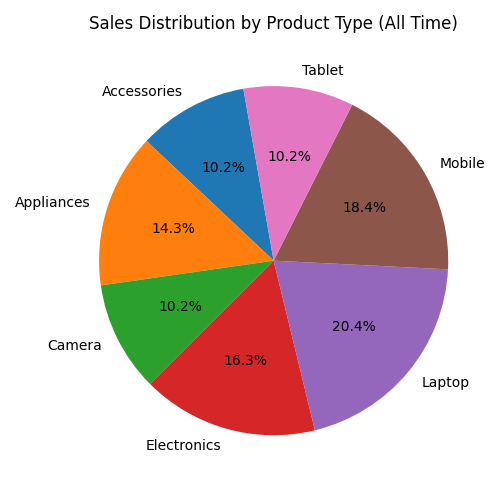
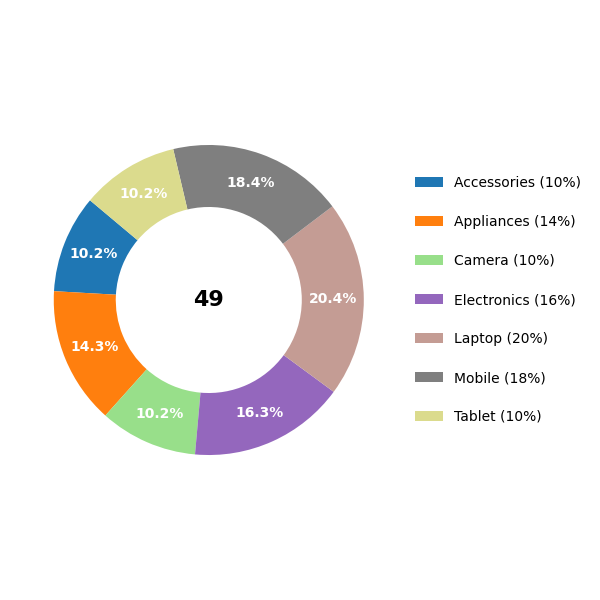
new pie chart and bar chart design is completed with upload csv file

diff --git a/templates/upload-csv.html b/templates/upload-csv.html
@@ -7,21 +7,17 @@
 <form method="POST" enctype="multipart/form-data" class="bg-white p-6 rounded shadow-md">
   <div class="mb-4">
     <label for="file" class="block mb-2 font-medium text-gray-700">Select CSV File</label>
-    <input type="file" id="file" name="file" accept=".csv" required
-           class="w-full border px-3 py-2 rounded" />
+    <input type="file" id="file" name="file" accept=".csv" required class="w-full border px-3 py-2 rounded" />
   </div>
-  <button type="submit"
-          class="bg-blue-600 text-white px-4 py-2 rounded hover:bg-blue-700">
-    Upload and Generate Charts
+  <button type="submit" class="bg-blue-600 text-white px-4 py-2 rounded hover:bg-blue-700">
+    Upload and Generate Chart
   </button>
 </form>
 
 {% if uploaded %}
   <div class="mt-6">
-    <h3 class="text-lg font-semibold mb-2">Generated Charts:</h3>
-    <img src="{{ url_for('static', filename='chart_bar.png') }}" class="mb-4 w-full max-w-md" />
-    <img src="{{ url_for('static', filename='chart_line.png') }}" class="mb-4 w-full max-w-md" />
-    <img src="{{ url_for('static', filename='chart_pie.png') }}" class="w-full max-w-md" />
+    <h3 class="text-lg font-semibold mb-2">Generated Bar Chart:</h3>
+    <img src="{{ url_for('static', filename='bar_dynamic.png') }}" class="w-full max-w-lg" />
   </div>
 {% endif %}
 {% endblock %}

diff --git a/utils/chart_utils.py b/utils/chart_utils.py
@@ -2,9 +2,15 @@ import matplotlib
 matplotlib.use('Agg')  # ✅ Use non-GUI backend for server rendering
 
 import matplotlib.pyplot as plt
+import numpy as np
+import matplotlib.colors as mcolors
+import pandas as pd
+import matplotlib.cm as cm 
+import matplotlib.ticker as ticker
 import sqlite3
 import os
 from datetime import datetime
+
 
 DB_PATH = os.path.join(os.path.dirname(__file__), '..', 'database', 'sales.db')
 
@@ -12,7 +18,7 @@ def generate_charts(start_date=None, end_date=None):
     conn = sqlite3.connect(DB_PATH)
     cursor = conn.cursor()
 
-    # Filter sales by date if provided
+    # Get sales data by date
     if start_date and end_date:
         cursor.execute("SELECT date, SUM(amount) FROM sales WHERE date BETWEEN ? AND ? GROUP BY date", (start_date, end_date))
     else:
@@ -24,25 +30,83 @@ def generate_charts(start_date=None, end_date=None):
     if not data:
         return
 
-    # Unzip dates and values
+    # Extract and sort
     dates, totals = zip(*data)
+    dates = [datetime.strptime(d, "%Y-%m-%d") for d in dates]
+    sorted_data = sorted(zip(dates, totals))
+    dates, totals = zip(*sorted_data)
 
-    # Chart 1: Sales over time
-    plt.figure(figsize=(8, 7))
-    plt.plot(dates, totals, marker='o')
-    plt.title('Sales Over Time')
-    plt.xlabel('Date')
-    plt.ylabel('Total Sales')
-    plt.xticks(rotation=45)
+    # Convert to NumPy for smooth plotting
+    x = np.arange(len(dates))
+    y = np.array(totals)
+
+    # 🌈 Gradient Color
+    gradient_color = mcolors.LinearSegmentedColormap.from_list("custom_gradient", ['#ff6a00', '#ff2fab', '#5f76f3'])
+
+    fig, ax = plt.subplots(figsize=(9, 6))
+  
+
+    # Smooth line (optional cubic interpolation)
+    from scipy.interpolate import make_interp_spline
+    xnew = np.linspace(x.min(), x.max(), 300)
+    spl = make_interp_spline(x, y, k=3)
+    y_smooth = spl(xnew)
+
+    # Line plot
+    ax.plot(xnew, y_smooth, color="#ff2f2f", linewidth=2.5)
+
+    # Gradient fill below
+    ax.fill_between(xnew, y_smooth, color="#f7dfe0", alpha=0.1)
+
+    # Style tweaks
+    ax.set_xticks(x)
+    ax.set_xticklabels([d.strftime('%b') for d in dates], color='white', fontsize=9)
+    ax.set_yticklabels(ax.get_yticks(), color='white', fontsize=9)
+    ax.spines['top'].set_visible(False)
+    ax.spines['right'].set_visible(False)
+
     plt.tight_layout()
-    plt.savefig('static/chart1.png')
+    plt.savefig('static/chart1.png', facecolor=fig.get_facecolor())
     plt.close()
+# def generate_charts(start_date=None, end_date=None):
+#     conn = sqlite3.connect(DB_PATH)
+#     cursor = conn.cursor()
+
+#     if start_date and end_date:
+#         cursor.execute("SELECT date, SUM(amount) FROM sales WHERE date BETWEEN ? AND ? GROUP BY date", (start_date, end_date))
+#     else:
+#         cursor.execute("SELECT date, SUM(amount) FROM sales GROUP BY date")
+
+#     data = cursor.fetchall()
+#     conn.close()
+
+#     if not data:
+#         return
+
+#     dates, totals = zip(*data)
+
+#     # 💡 Start custom style
+#     plt.style.use('ggplot')  # Try: 'ggplot', 'fivethirtyeight', 'bmh'
+
+#     fig, ax = plt.subplots(figsize=(8, 5))
+#     ax.plot(dates, totals, color='#1f77b4', linewidth=2.5, marker='o', markersize=6)
+
+#     ax.set_title('📈 Sales Over Time', fontsize=16, fontweight='bold', color='#333')
+#     ax.set_xlabel('Date', fontsize=12)
+#     ax.set_ylabel('Total Sales (₹)', fontsize=12)
+#     plt.xticks(rotation=45)
+#     plt.grid(True, linestyle='--', alpha=0.6)
+#     plt.tight_layout()
+#     plt.savefig('static/chart1.png')
+#     plt.close()
+
+DB_PATH = os.path.join(os.path.dirname(__file__), '..', 'database', 'sales.db')
 
 def generate_pie_chart(start_date=None, end_date=None, year=None):
     conn = sqlite3.connect(DB_PATH)
     cursor = conn.cursor()
 
-    # ✅ 1. If year is provided, use it
+    # Query sales by product_type for given year (or all)
     if year:
         cursor.execute("""
             SELECT product_type, COUNT(*) 
@@ -50,26 +114,12 @@ def generate_pie_chart(start_date=None, end_date=None, year=None):
             WHERE strftime('%Y', date) = ? 
             GROUP BY product_type
         """, (year,))
-        title = f"Sales Distribution by Product Type ({year})"
-
-    # ✅ 2. If start_date and end_date are provided
-    elif start_date and end_date:
-        cursor.execute("""
-            SELECT product_type, COUNT(*) 
-            FROM sales 
-            WHERE date BETWEEN ? AND ? 
-            GROUP BY product_type
-        """, (start_date, end_date))
-        title = f"Sales Distribution ({start_date} to {end_date})"
-
-    # ✅ 3. Otherwise, show all data
     else:
         cursor.execute("""
             SELECT product_type, COUNT(*) 
             FROM sales 
             GROUP BY product_type
         """)
-        title = "Sales Distribution by Product Type (All Time)"
 
     data = cursor.fetchall()
     conn.close()
@@ -78,11 +128,94 @@ def generate_pie_chart(start_date=None, end_date=None, year=None):
         return
 
     labels, counts = zip(*data)
+    total = sum(counts)
 
-    plt.figure(figsize=(5, 5))
-    plt.pie(counts, labels=labels, autopct='%1.1f%%', startangle=100)
-    plt.title(title)
-    plt.axis('equal')
+    # Custom Colors (inspired by your image)
+    cmap=cm.get_cmap('tab20')
+    colors =[cmap(i/len(labels))for i in range(len(labels))]
+
+    # Set background to dark
+    plt.style.use('dark_background')
+
+    fig, ax = plt.subplots(figsize=(6, 6), facecolor="#FFFFFFFF")
+    wedges, texts, autotexts = ax.pie(
+        counts, 
+        labels=None,
+        autopct=lambda pct: f"{pct:.1f}%", 
+        startangle=140, 
+        colors=colors,
+        wedgeprops=dict(width=0.4),
+        pctdistance=0.8,
+        textprops={'color':'white', 'weight':'bold','fontsize':10}
+    )
+
+    # Center text: total
+    ax.text(0, 0, f'{total}', ha='center', va='center', fontsize=16, color='black', fontweight='bold')
+
+    # Create custom legend
+    ax.legend(
+        wedges,
+        [f"{label} ({count / total:.0%})" for label, count in zip(labels, counts)],
+        loc='center left',
+        bbox_to_anchor=(1, 0.5),
+        frameon=False,
+        labelcolor='black',
+        labelspacing=1.8
+    )
+
     plt.tight_layout()
-    plt.savefig('static/piechart.png')
+    plt.savefig('static/piechart.png', facecolor=fig.get_facecolor())
+    plt.close()
+
+
+# ------------------ Dynamic Grouped Bar Chart ------------------
+def generate_dynamic_bar_chart(csv_path):
+    df = pd.read_csv(csv_path)
+
+    if df.shape[1] < 2:
+        return
+
+    x_labels = df.iloc[:, 0]  # First column
+    series_names = df.columns[1:]
+
+    x = np.arange(len(x_labels))
+    total_series = len(series_names)
+    width = 0.8 / total_series
+
+    fig, ax = plt.subplots(figsize=(9, 6), facecolor='white')
+
+    # 🔥 Auto orange gradient shades
+    orange_cmap = cm.get_cmap('Oranges', total_series + 2)  # More variation
+    bar_colors = [orange_cmap(i) for i in range(2, total_series + 2)]
+
+    for i, subject in enumerate(series_names):
+        ax.bar(x + i * width - (width * total_series / 2) + width/2,
+               df[subject],
+               width=width,
+               label=subject,
+               color=bar_colors[i],
+               edgecolor='none')
+
+    # ✨ Styling
+    ax.set_xticks(x)
+    ax.set_xticklabels(x_labels, rotation=0, ha='center', fontsize=10)
+
+    ax.set_ylim(0, df[series_names].values.max() * 1.3)
+
+    ax.set_facecolor('white')
+    fig.patch.set_facecolor('white')
+
+    # Hide spines
+    ax.spines[['top', 'right', 'left']].set_visible(False)
+    ax.spines['bottom'].set_color('#DDDDDD')
+
+    # Grid and labels
+    ax.yaxis.set_major_formatter(ticker.FuncFormatter(lambda x, _: f'{int(x)}'))
+    ax.yaxis.grid(True, color='#EEEEEE')
+    ax.xaxis.grid(False)
+
+    ax.legend(loc='upper center', bbox_to_anchor=(0.5, 1.2), frameon=True, ncol=len(series_names))
+
+    plt.tight_layout()
+    plt.savefig("static/bar_dynamic.png", facecolor=fig.get_facecolor())
     plt.close()

diff --git a/app.py b/app.py
@@ -1,8 +1,11 @@
 from flask import Flask, render_template, request, redirect, url_for, session
 import sqlite3
-from utils.chart_utils import generate_charts, generate_pie_chart
+from utils.chart_utils import generate_charts, generate_pie_chart, generate_dynamic_bar_chart
 import os
-
+import matplotlib.pyplot as plt
+import os
+import pandas as pd
+import csv
 app = Flask(__name__)
 app.secret_key = "123456789harsh"
 
@@ -119,32 +122,26 @@ def report():
 
 
 
+UPLOAD_FOLDER = 'uploads'
+os.makedirs(UPLOAD_FOLDER, exist_ok=True)
+
+UPLOAD_FOLDER = 'uploads'
+os.makedirs(UPLOAD_FOLDER, exist_ok=True)
 
 @app.route('/upload-csv', methods=['GET', 'POST'])
 def upload_csv():
-    if 'user' not in session:
-        return redirect(url_for('login'))
-
+    chart_generated = False
     if request.method == 'POST':
         file = request.files['file']
         if file and file.filename.endswith('.csv'):
-            filepath = os.path.join('uploads', file.filename)
+            filepath = os.path.join(UPLOAD_FOLDER, file.filename)
             file.save(filepath)
 
-            import csv
-            conn = get_db_connection()
-            with open(filepath, 'r') as f:
-                reader = csv.reader(f)
-                next(reader)  # Skip header
-                for row in reader:
-                    conn.execute('INSERT INTO sales (product, amount, date) VALUES (?, ?, ?, ?)',
-                                 (row[0], row[1], row[2], session['user']))
-            conn.commit()
-            conn.close()
+            # Call your utility function
+            generate_dynamic_bar_chart(filepath)
+            chart_generated = True
 
-            return redirect(url_for('history'))
-
-    return render_template('upload-csv.html')
+    return render_template('upload-csv.html', uploaded=chart_generated)
 # ----------------- UPDATE SALE -----------------
 @app.route('/update_sale/<int:sale_id>', methods=['GET', 'POST'])
 def update_sale(sale_id):
